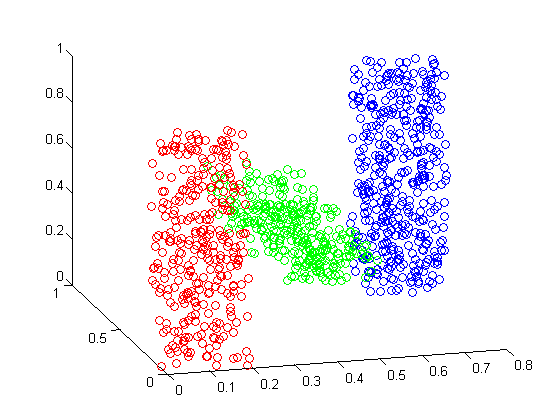
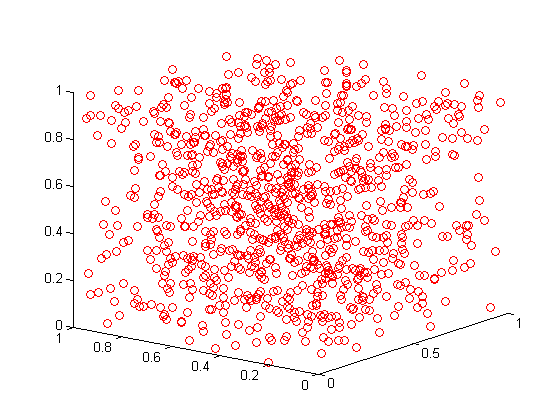
Correct Screenshots

diff --git a/demoPCA.m b/demoPCA.m
@@ -1,28 +1,9 @@
 input_data = rand(1000,3);
-pack_1 = 1:300;
-pack_2 = 301:600;
-pack_3 = 601:1000;
-
-input_data(pack_1,1) = rand(size(pack_1))*0.2;
-input_data(pack_1,2) = rand(size(pack_1))*0.2;
-input_data(pack_1,3) = rand(size(pack_1));
-
-input_data(pack_2,1) = rand(size(pack_2))*0.2 + 0.3;
-input_data(pack_2,2) = rand(size(pack_2));
-input_data(pack_2,3) = rand(size(pack_2))*0.2 + 0.3;
-
-input_data(pack_3,1) = rand(size(pack_3))*0.2 + 0.6;
-input_data(pack_3,2) = rand(size(pack_3))*0.2 + 0.6;
-input_data(pack_3,3) = rand(size(pack_3));
 
 %% Visualize Input Data
 figure(1);
 hold off;
-plot3(input_data(pack_1,1), input_data(pack_1,2), input_data(pack_1,3), 'ro');
-hold on;
-plot3(input_data(pack_2,1), input_data(pack_2,2), input_data(pack_2,3), 'go');
-plot3(input_data(pack_3,1), input_data(pack_3,2), input_data(pack_3,3), 'bo');
-
+plot3(input_data(:,1), input_data(:,2), input_data(:,3), 'ro');
 
 %% Function PCA, input_data, out_dim
 % Use this to switch methods
@@ -55,9 +36,5 @@ end
 %% Visualize Output Data
 figure(2);
 hold off;
-plot(output_data(pack_1,1), output_data(pack_1,2), 'ro');
-hold on;
-plot(output_data(pack_2,1), output_data(pack_2,2), 'go');
-plot(output_data(pack_3,1), output_data(pack_3,2), 'bo');
-
+plot(output_data(:,1), output_data(:,2), 'bo');
 
